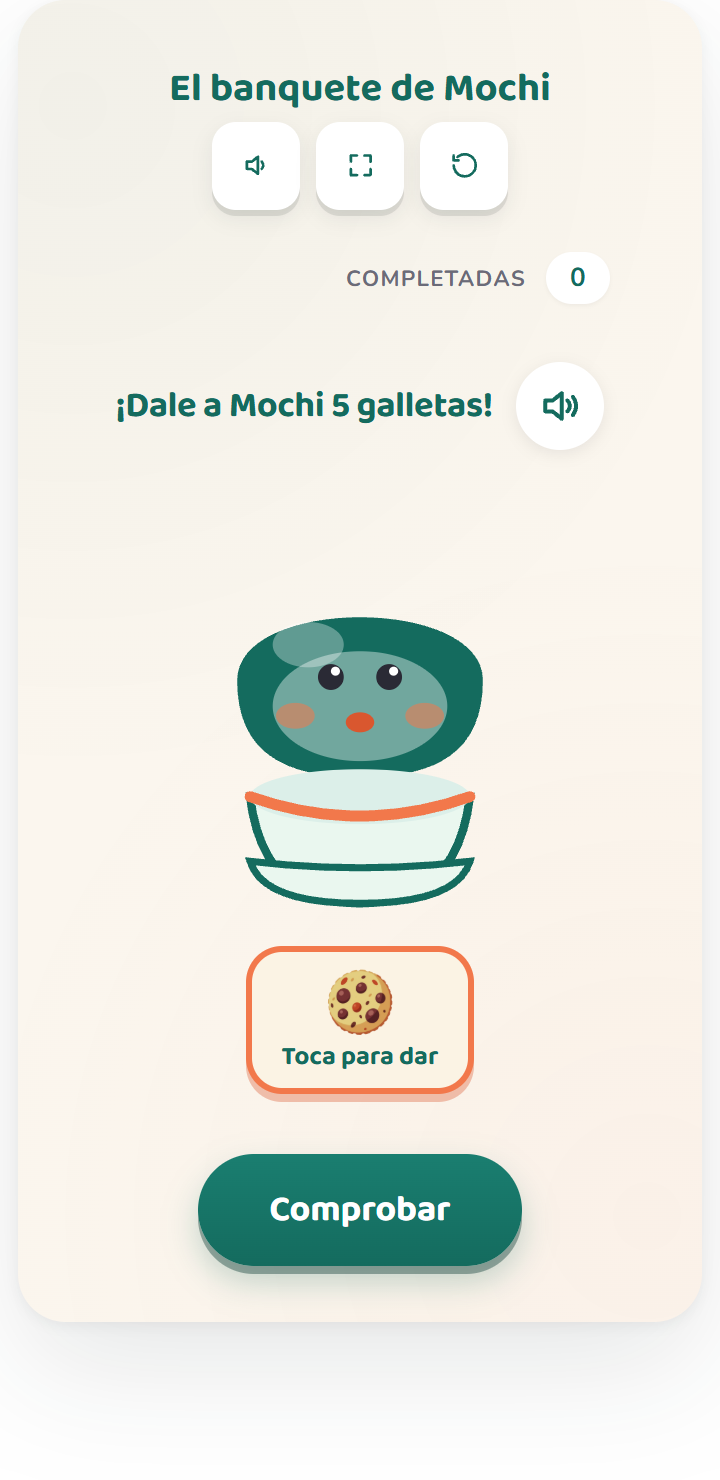
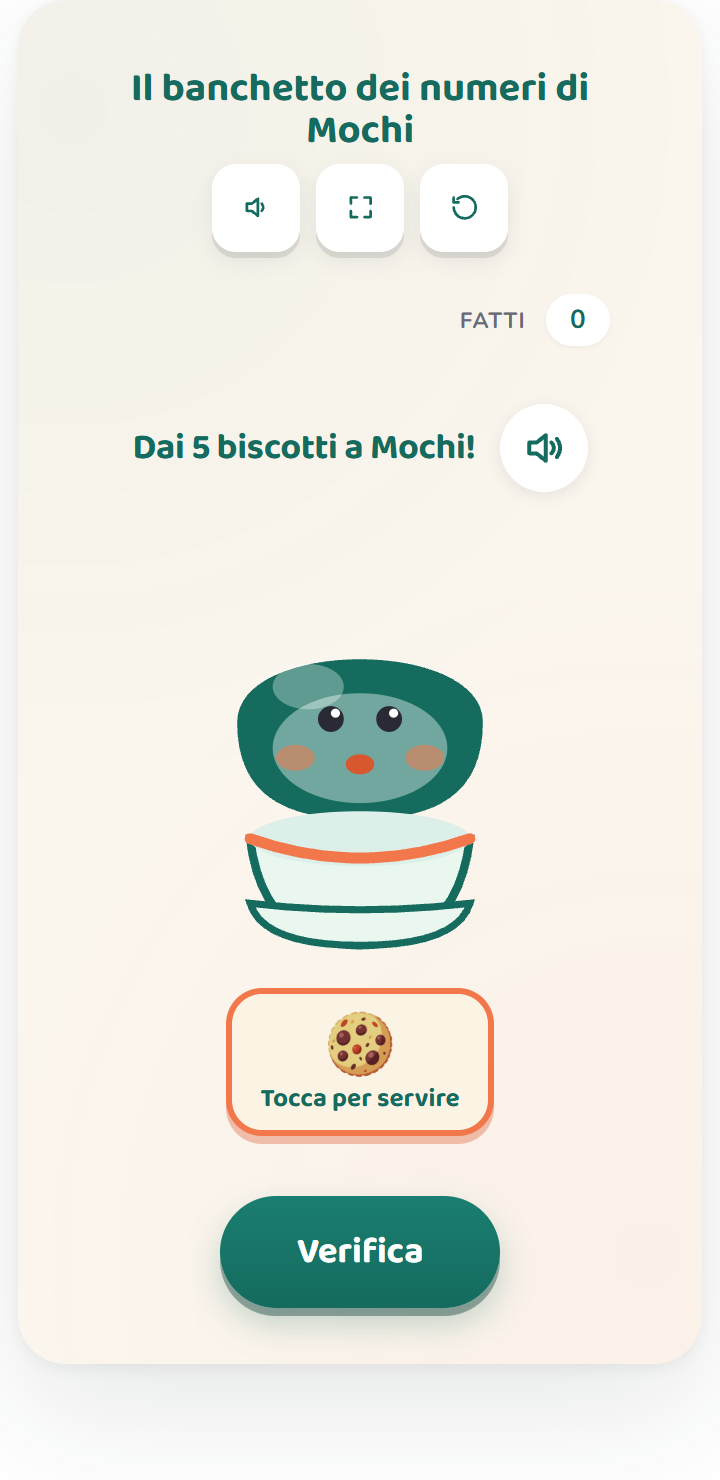
[FEATURE][I18N][IT] mochi-feast #57 — Il banchetto dei numeri di Mochi (contare e formare la quantità, Numeri, classe prima)
Italian fan-out of the mochi-feast count-out / produce-a-set activity (K.CC.B.5 machine anchor).
Activity-layer only: 0 lines to mochi-feast-core.js / lcs-shell.* / Direction-A CSS.

- mochi-feast-activity.js: it: on all 16 strings (incl. the 8 inline-plural food prompts —
  fragole/biscotti/ciliegie/cupcake/banane/mele/ciambelle/muffin baked into each «Dai {n} … a
  Mochi!» prompt). The simplest surface yet: NO number-word table, NO gender maps, NO speak/TTS,
  NO inline ternaries. 100% apostrophe-free JS (no U+0027, no U+2019).
- mochi-feast-activities.json: it slug/page_title/page_intro (native, no CCSS code).
- mochi-feast-activity.html: cache-buster ?v=8 → ?v=9.
- it.json: prose block (about×3 unique / practices×4 / howToPlay×3 / learningGoals×3).
- page.tsx: GRADE_OVERRIDE it:'1' (classe prima — aligns de/pt, es/fr keep K); wrapper 9.509→9.510.
  NO STRAND override — strand-names.ts already maps Counting&Cardinality → it «Numeri» (untouched).

Ensemble (native it K-3 math pedagogue [Indicazioni] + linguist + B2C/SEO):
classe prima (produrre/formare una collezione di data numerosità = obiettivo prima, the productive
end of counting); strand «Numeri» (auto). Terms: treats = «le golosità» (pedagogue REJECT «i
dolcetti» — dolce excludes fruit, a banana is not a dolcetto); «il piatto» (tap) → «la ciotola»
(fill); give frame «Dai {n} … a Mochi!»; donut = native «ciambelle» (over the loanword);
[…]

diff --git a/mini tools/mochi-feast-activity.js b/mini tools/mochi-feast-activity.js
@@ -101,22 +101,22 @@ window.MochiFeastActivity = Object.assign({}, MochiFeastCore, {
      the German treat PLURAL rides each per-treat prompt (no separate noun map).
      Teller = the dish you tap; Schüssel = the bowl treats land in. */
   strings: {
-    title:        { en: "Mochi's Counting Feast", de: 'Mochis Zählfest', fr: 'Le grand festin de Mochi', es: 'El banquete de Mochi', pt: 'O banquete do Mochi' },
-    instruction:  { en: "Tap the dish to feed Mochi the right number of treats, then tap Check.", de: 'Tippe auf den Teller, um Mochi die richtige Anzahl Leckereien zu geben, und tippe dann auf „Prüfen".', fr: 'Tape sur le plat pour donner à Mochi le bon nombre de gourmandises, puis tape sur « Vérifier ».', es: 'Toca el plato para darle a Mochi el número correcto de golosinas y luego toca Comprobar.', pt: 'Toque no prato para dar a quantidade certa de guloseimas ao Mochi. Depois, toque em Verificar.' },
-    promptStrawberry: { en: "Feed Mochi {n} strawberries!", de: 'Gib Mochi {n} Erdbeeren!', fr: 'Donne {n} fraises à Mochi !', es: '¡Dale a Mochi {n} fresas!', pt: 'Dê {n} morangos ao Mochi!' },
-    promptCookie:     { en: "Feed Mochi {n} cookies!",      de: 'Gib Mochi {n} Kekse!', fr: 'Donne {n} cookies à Mochi !', es: '¡Dale a Mochi {n} galletas!', pt: 'Dê {n} biscoitos ao Mochi!' },
-    promptCherry:     { en: "Feed Mochi {n} cherries!",     de: 'Gib Mochi {n} Kirschen!', fr: 'Donne {n} cerises à Mochi !', es: '¡Dale a Mochi {n} cerezas!', pt: 'Dê {n} cerejas ao Mochi!' },
-    promptCupcake:    { en: "Feed Mochi {n} cupcakes!",     de: 'Gib Mochi {n} Cupcakes!', fr: 'Donne {n} cupcakes à Mochi !', es: '¡Dale a Mochi {n} cupcakes!', pt: 'Dê {n} cupcakes ao Mochi!' },
-    promptBanana:     { en: "Feed Mochi {n} bananas!",      de: 'Gib Mochi {n} Bananen!', fr: 'Donne {n} bananes à Mochi !', es: '¡Dale a Mochi {n} plátanos!', pt: 'Dê {n} bananas ao Mochi!' },
-    promptApple:      { en: "Feed Mochi {n} apples!",       de: 'Gib Mochi {n} Äpfel!', fr: 'Donne {n} pommes à Mochi !', es: '¡Dale a Mochi {n} manzanas!', pt: 'Dê {n} maçãs ao Mochi!' },
-    promptDonut:      { en: "Feed Mochi {n} donuts!",       de: 'Gib Mochi {n} Donuts!', fr: 'Donne {n} donuts à Mochi !', es: '¡Dale a Mochi {n} donas!', pt: 'Dê {n} rosquinhas ao Mochi!' },
-    promptMuffin:     { en: "Feed Mochi {n} muffins!",      de: 'Gib Mochi {n} Muffins!', fr: 'Donne {n} muffins à Mochi !', es: '¡Dale a Mochi {n} muffins!', pt: 'Dê {n} muffins ao Mochi!' },
-    hintAddSome: { en: "Tap the dish to give Mochi a treat.", de: 'Tippe auf den Teller, um Mochi eine Leckerei zu geben.', fr: 'Tape sur le plat pour donner une gourmandise à Mochi.', es: 'Toca el plato para darle una golosina a Mochi.', pt: 'Toque no prato para dar uma guloseima ao Mochi.' },
-    hintMore:    { en: "Mochi is still a little hungry — add a few more.", de: 'Mochi hat noch ein bisschen Hunger – leg noch ein paar dazu.', fr: 'Mochi a encore un petit peu faim… ajoute-en encore quelques-unes.', es: 'Mochi todavía tiene un poquito de hambre… agrégale unas cuantas más.', pt: 'O Mochi ainda está com um pouquinho de fome — coloque mais algumas.' },
-    hintTooMany: { en: "Ooh, that's a lot! Tap a treat in the bowl to take one back.", de: 'Oh, das sind zu viele! Tippe auf eine Leckerei in der Schüssel, um eine zurückzunehmen.', fr: 'Oh là là, ça fait beaucoup ! Tape sur une gourmandise dans le bol pour en reprendre une.', es: '¡Uy, son muchas! Toca una golosina del tazón para quitar una.', pt: 'Opa, quanta coisa! Toque em uma guloseima na tigela para tirar uma.' },
-    trayLabel:  { en: "Tap to feed", de: 'Zum Füttern tippen', fr: 'Tape pour nourrir', es: 'Toca para dar', pt: 'Toque para alimentar' },
-    srAddTreat: { en: "Give Mochi a treat", de: 'Mochi eine Leckerei geben', fr: 'Donner une gourmandise à Mochi', es: 'Darle una golosina a Mochi', pt: 'Dar uma guloseima ao Mochi' },
-    srTakeBack: { en: "Take this treat back", de: 'Diese Leckerei zurücknehmen', fr: 'Reprendre cette gourmandise', es: 'Quitar esta golosina', pt: 'Tirar esta guloseima' }
+    title:        { en: "Mochi's Counting Feast", de: 'Mochis Zählfest', fr: 'Le grand festin de Mochi', es: 'El banquete de Mochi', pt: 'O banquete do Mochi', it: 'Il banchetto dei numeri di Mochi' },
+    instruction:  { en: "Tap the dish to feed Mochi the right number of treats, then tap Check.", de: 'Tippe auf den Teller, um Mochi die richtige Anzahl Leckereien zu geben, und tippe dann auf „Prüfen".', fr: 'Tape sur le plat pour donner à Mochi le bon nombre de gourmandises, puis tape sur « Vérifier ».', es: 'Toca el plato para darle a Mochi el número correcto de golosinas y luego toca Comprobar.', pt: 'Toque no prato para dar a quantidade certa de guloseimas ao Mochi. Depois, toque em Verificar.', it: 'Tocca il piatto per dare a Mochi il numero giusto di golosità, poi tocca Verifica.' },
+    promptStrawberry: { en: "Feed Mochi {n} strawberries!", de: 'Gib Mochi {n} Erdbeeren!', fr: 'Donne {n} fraises à Mochi !', es: '¡Dale a Mochi {n} fresas!', pt: 'Dê {n} morangos ao Mochi!', it: 'Dai {n} fragole a Mochi!' },
+    promptCookie:     { en: "Feed Mochi {n} cookies!",      de: 'Gib Mochi {n} Kekse!', fr: 'Donne {n} cookies à Mochi !', es: '¡Dale a Mochi {n} galletas!', pt: 'Dê {n} biscoitos ao Mochi!', it: 'Dai {n} biscotti a Mochi!' },
+    promptCherry:     { en: "Feed Mochi {n} cherries!",     de: 'Gib Mochi {n} Kirschen!', fr: 'Donne {n} cerises à Mochi !', es: '¡Dale a Mochi {n} cerezas!', pt: 'Dê {n} cerejas ao Mochi!', it: 'Dai {n} ciliegie a Mochi!' },
+    promptCupcake:    { en: "Feed Mochi {n} cupcakes!",     de: 'Gib Mochi {n} Cupcakes!', fr: 'Donne {n} cupcakes à Mochi !', es: '¡Dale a Mochi {n} cupcakes!', pt: 'Dê {n} cupcakes ao Mochi!', it: 'Dai {n} cupcake a Mochi!' },
+    promptBanana:     { en: "Feed Mochi {n} bananas!",      de: 'Gib Mochi {n} Bananen!', fr: 'Donne {n} bananes à Mochi !', es: '¡Dale a Mochi {n} plátanos!', pt: 'Dê {n} bananas ao Mochi!', it: 'Dai {n} banane a Mochi!' },
+    promptApple:      { en: "Feed Mochi {n} apples!",       de: 'Gib Mochi {n} Äpfel!', fr: 'Donne {n} pommes à Mochi !', es: '¡Dale a Mochi {n} manzanas!', pt: 'Dê {n} maçãs ao Mochi!', it: 'Dai {n} mele a Mochi!' },
+    promptDonut:      { en: "Feed Mochi {n} donuts!",       de: 'Gib Mochi {n} Donuts!', fr: 'Donne {n} donuts à Mochi !', es: '¡Dale a Mochi {n} donas!', pt: 'Dê {n} rosquinhas ao Mochi!', it: 'Dai {n} ciambelle a Mochi!' },
+    promptMuffin:     { en: "Feed Mochi {n} muffins!",      de: 'Gib Mochi {n} Muffins!', fr: 'Donne {n} muffins à Mochi !', es: '¡Dale a Mochi {n} muffins!', pt: 'Dê {n} muffins ao Mochi!', it: 'Dai {n} muffin a Mochi!' },
+    hintAddSome: { en: "Tap the dish to give Mochi a treat.", de: 'Tippe auf den Teller, um Mochi eine Leckerei zu geben.', fr: 'Tape sur le plat pour donner une gourmandise à Mochi.', es: 'Toca el plato para darle una golosina a Mochi.', pt: 'Toque no prato para dar uma guloseima ao Mochi.', it: 'Tocca il piatto per dare una golosità a Mochi.' },
+    hintMore:    { en: "Mochi is still a little hungry — add a few more.", de: 'Mochi hat noch ein bisschen Hunger – leg noch ein paar dazu.', fr: 'Mochi a encore un petit peu faim… ajoute-en encore quelques-unes.', es: 'Mochi todavía tiene un poquito de hambre… agrégale unas cuantas más.', pt: 'O Mochi ainda está com um pouquinho de fome — coloque mais algumas.', it: 'Mochi ha ancora un poco di fame: aggiungine altre.' },
+    hintTooMany: { en: "Ooh, that's a lot! Tap a treat in the bowl to take one back.", de: 'Oh, das sind zu viele! Tippe auf eine Leckerei in der Schüssel, um eine zurückzunehmen.', fr: 'Oh là là, ça fait beaucoup ! Tape sur une gourmandise dans le bol pour en reprendre une.', es: '¡Uy, son muchas! Toca una golosina del tazón para quitar una.', pt: 'Opa, quanta coisa! Toque em uma guloseima na tigela para tirar uma.', it: 'Ops, quante! Tocca una golosità nella ciotola per riprenderla.' },
+    trayLabel:  { en: "Tap to feed", de: 'Zum Füttern tippen', fr: 'Tape pour nourrir', es: 'Toca para dar', pt: 'Toque para alimentar', it: 'Tocca per servire' },
+    srAddTreat: { en: "Give Mochi a treat", de: 'Mochi eine Leckerei geben', fr: 'Donner une gourmandise à Mochi', es: 'Darle una golosina a Mochi', pt: 'Dar uma guloseima ao Mochi', it: 'Dai una golosità a Mochi' },
+    srTakeBack: { en: "Take this treat back", de: 'Diese Leckerei zurücknehmen', fr: 'Reprendre cette gourmandise', es: 'Quitar esta golosina', pt: 'Tirar esta guloseima', it: 'Riprendi questa golosità' }
   },
 
   /* NO `tasks` property → the shell calls our nextTask() for ordering, so

diff --git a/frontend/app/[locale]/activities/[slug]/page.tsx b/frontend/app/[locale]/activities/[slug]/page.tsx
@@ -106,7 +106,7 @@ const GRADE_OVERRIDE: Record<string, Record<string, string>> = {
 
   'star-stitcher.connect-sequence.k-cc-a-2': { de: '1', pt: '1', it: '1' },        // K count-forward-from-N → Klasse 1 / 1º ano (pt BNCC EF01MA01 nº como indicador de ordem + EF01MA02 pareamento; sobrecontagem; ≤18 no-place-value keeps it 1º; K-cluster→1º); en stays Kindergarten
 
-  'mochi-feast.count-out.k-cc-b-5': { de: '1', pt: '1' },                 // K count-out-N / produce-a-set → Klasse 1 / 1º ano (pt BNCC EF01MA02 contar de maneira exata/pareamento — count-out-to-produce, distinct from #55 necklace EF01MA04 count-&-register; + EF01MA01; K-cluster→1º); en stays Kindergarten
+  'mochi-feast.count-out.k-cc-b-5': { de: '1', pt: '1', it: '1' },                 // K count-out-N / produce-a-set → Klasse 1 / 1º ano (pt BNCC EF01MA02 contar de maneira exata/pareamento — count-out-to-produce, distinct from #55 necklace EF01MA04 count-&-register; + EF01MA01; K-cluster→1º); en stays Kindergarten
 
   'ten-tank.ten-frame-tank.k-nbt-a-1': { de: '1', fr: '1', es: '1', pt: '1' },      // K teen numbers 11-19 as ten+ones (Bündeln) → Klasse 1. PT 1º ano (pedagogue-decisive): compor/decompor 11-19 como uma dezena e unidades com material manipulável = BNCC EF01MA07 (+ EF01MA05 comparar) — NOT EF01MA08 (add/sub problems); DISTINCT from bos-berry-pantry pt='2' (that's valor posicional formal to 85 = EF02MA01; ten-tank ≤20 concreto = 1º). Strand Números pelo auto-map (NBT→Números) → SEM STRAND_OVERRIDE pt. en stays Kindergarten (K-cluster pattern). FR CP (operator-ruled): « une dizaine et des unités » structured-tens decomposition of 11-19 = début-CP attendu; native 'K'→GS too low (posy #71: la GS s'arrête vers 30, sans dizaines structurées); CP → « Nombres et calcul » auto-map correct → NO STRAND override. ES 1.º primaria (maestra-decisive #58): unitizar diez→una decena + valor posicional = entrada de primaria (preescolar no tiene decena); alinea los hermanos base-ten es (track-repair/bundle-bot='1'); strand auto «Sentido numérico» → NO es STRAND override
   'wondering-jar.estimate-jar.k-cc-b-5': { de: '1', pt: '1' },            // K estimate-then-count → Klasse 1 / 1º ano (pt BNCC EF01MA03 "estimar e comparar quantidades... em torno de 20 elementos" — the only 1º habilidade whose verb is literally estimar; + EF01MA02 secondary via "aproximada"; DISTINCT from #57 mochi-feast EF01MA02 count-out; K-cluster→1º). Strand Números pelo auto-map (CC→Números) → SEM STRAND_OVERRIDE pt. en stays Kindergarten (K-cluster pattern)
@@ -552,7 +552,7 @@ export default async function ActivityPage({ params }: { params: PageParams }) {
   // applied here to the iframe-loaded wrapper URL (the only un-busted
   // link in the activity-page → mini-tool chain). The wrapper reads
   // only `activity` / `lang` / `embed` params; `v` is harmless to it.
-  const ACTIVITY_WRAPPER_VERSION = '9.509';
+  const ACTIVITY_WRAPPER_VERSION = '9.510';
 
   const iframeSrc =
     `/mini-tools/${row.tool}.html?v=${ACTIVITY_WRAPPER_VERSION}` +

diff --git a/mini tools/mochi-feast-activity.html b/mini tools/mochi-feast-activity.html
@@ -23,7 +23,7 @@
        mochi-feast-activity.js (§A.13.42 cache-buster discipline). -->
   <script src="/mini-tools/lcs-shell.js?v=5"></script>
   <script src="/mini-tools/mochi-feast-core.js?v=4"></script>
-  <script src="/mini-tools/mochi-feast-activity.js?v=8"></script>
+  <script src="/mini-tools/mochi-feast-activity.js?v=9"></script>
   <script>
     LCS.mount(MochiFeastActivity, { mount: '#lcs-root' });
   </script>
